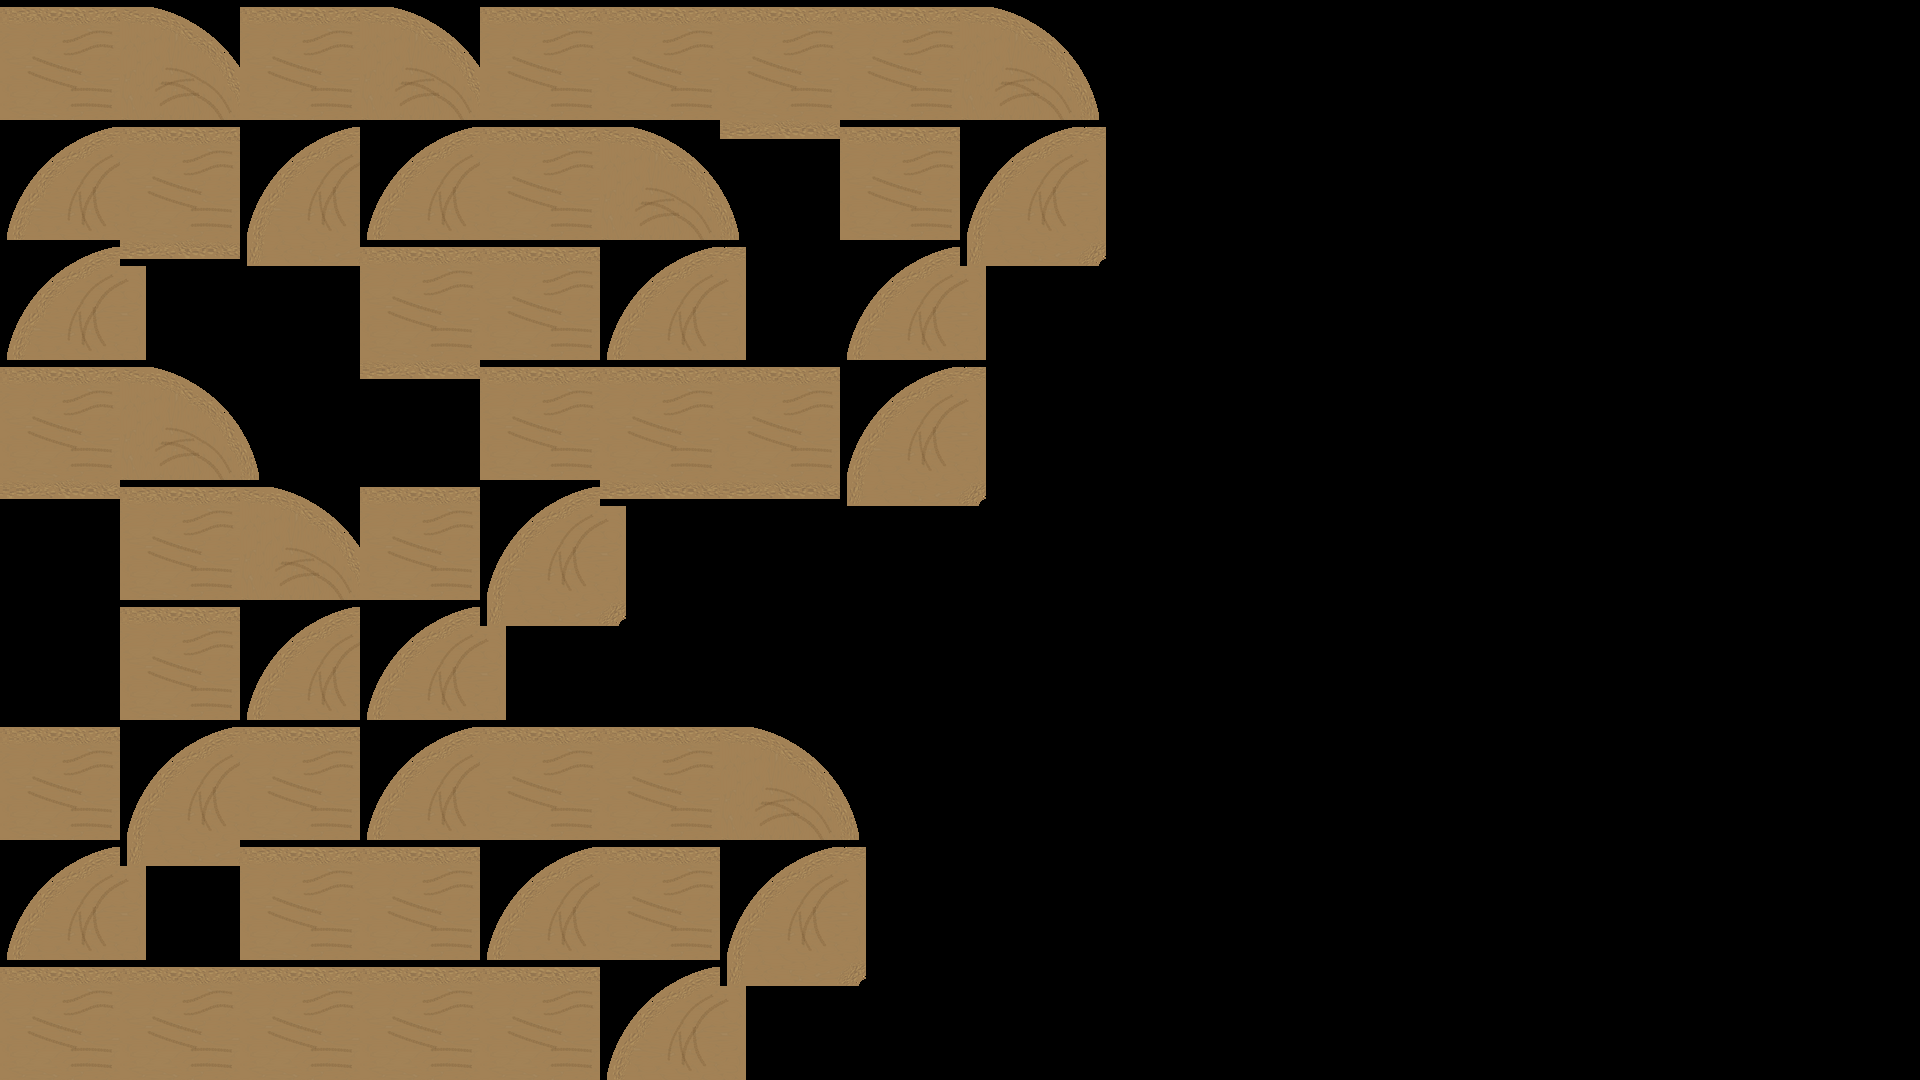
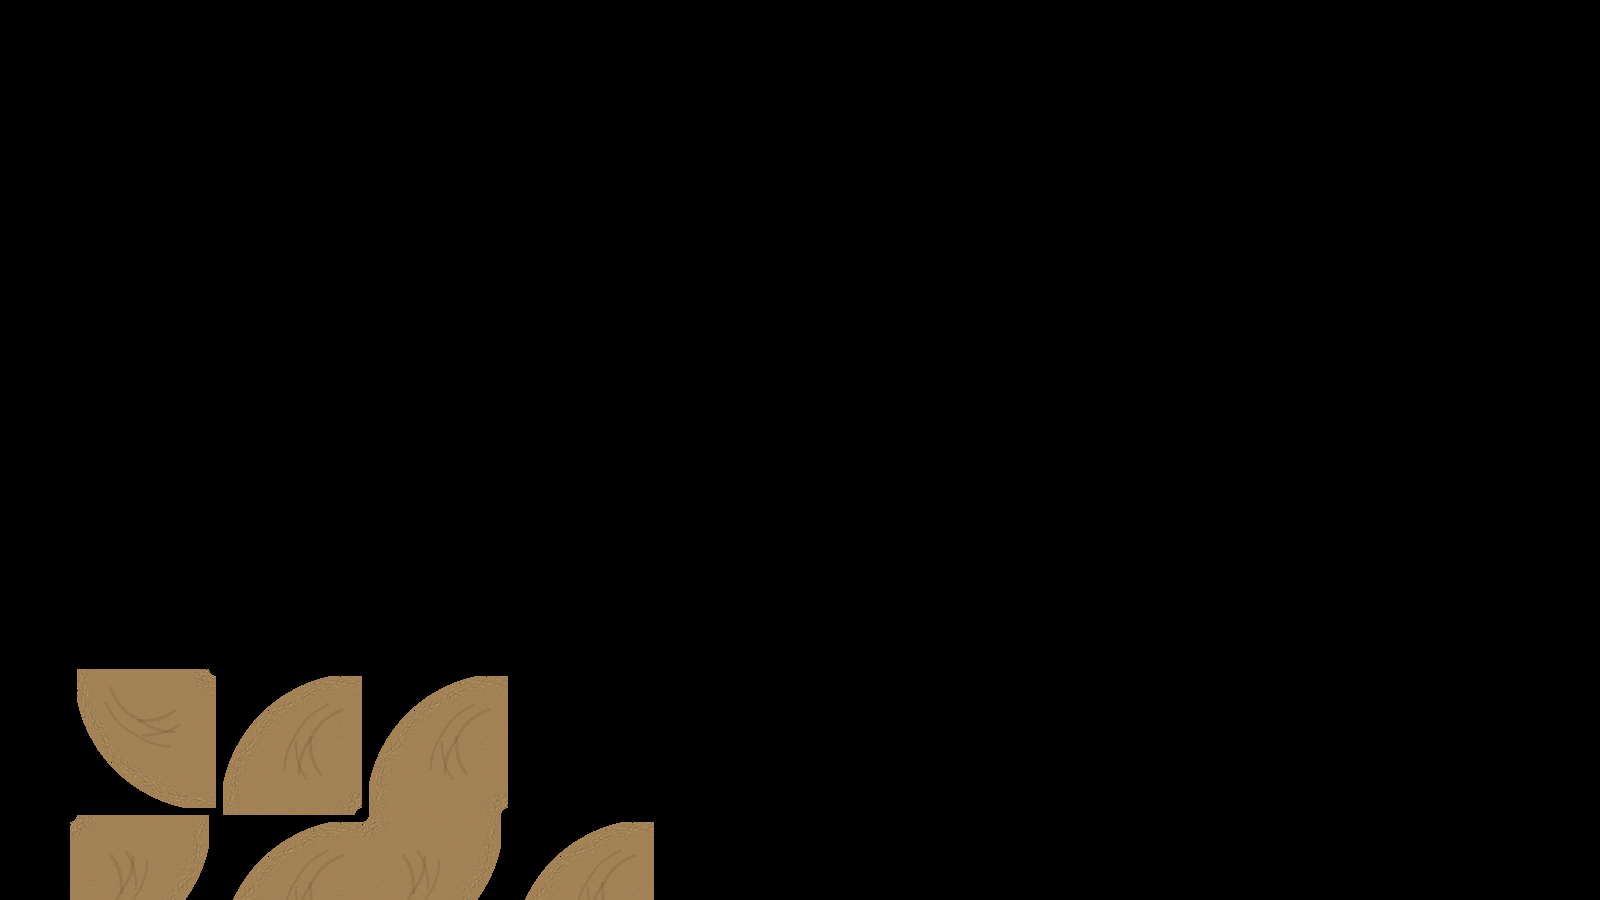
Seems to be working now?

diff --git a/MapGenerator/__init__.py b/MapGenerator/__init__.py
@@ -7,16 +7,19 @@ WIDTH = 16
 HEIGHT = 9
 SCREEN_WIDTH = 1920
 SCREEN_HEIGHT = 1080
-BLOCKSIZE = SCREEN_WIDTH/WIDTH # 120
+BLOCKSIZE = 146 # 120
 
 pyg.init()
 SCREEN = pyg.display.set_mode((SCREEN_WIDTH, SCREEN_HEIGHT))
-vertical      = pyg.image.load("track_imgs/vertical.png")
-horizontal    = pyg.image.load("track_imgs/horizontal.png")
-right_to_down = pyg.image.load("track_imgs/r2d.png")
-down_to_left  = pyg.image.load("track_imgs/d2l.png")
-left_to_top   = pyg.image.load("track_imgs/l2t.png")
-top_to_right  = pyg.image.load("track_imgs/t2r.png")
+vertical      = pyg.image.load("MapGenerator/track_imgs/vertical.png")
+horizontal    = pyg.image.load("MapGenerator/track_imgs/horizontal.png")
+right_to_down = pyg.image.load("MapGenerator/track_imgs/r2d.png")
+down_to_left  = pyg.image.load("MapGenerator/track_imgs/d2l.png")
+left_to_top   = pyg.image.load("MapGenerator/track_imgs/l2t.png")
+top_to_right  = pyg.image.load("MapGenerator/track_imgs/t2r.png")
+
+movex = 70
+movey = 85
 
 def generate_image(maze: Maze):
     for cell_row in maze:
@@ -26,26 +29,26 @@ def generate_image(maze: Maze):
                 continue
             cell_coordinates = get_coordinates(cell)
             cell_img_rect = cell_img.get_rect()
-            SCREEN.blit(cell_img, cell_img_rect.move(*cell_coordinates))
+            SCREEN.blit(cell_img, cell_img_rect.move(cell_coordinates[0]+movex, cell_coordinates[1]+movey))
 
 def get_img(cell: Cell):
     openings = cell.get_opening()
     print(f"WALLS: {cell.walls}")
-    print(f"openings: {openings}")
-    if ('down' and 'up') in openings:
+    print(f"openings: {openings} {openings.__len__()}")
+    if 'down' in openings and 'top' in openings:
         return vertical
-    elif ('left' and 'right') in openings: 
+    elif 'left' in openings and 'right' in openings: 
         return horizontal
-    elif ('right' and 'down') in openings:
+    elif 'right' in openings and 'down' in openings:
         return right_to_down
-    elif ('down' and 'left') in openings:
+    elif 'down' in openings and 'left' in openings:
         return down_to_left
-    elif ('left' and 'top') in openings:
+    elif 'left' in openings and 'top' in openings:
         return left_to_top
-    elif ('top' and 'right') in openings:
+    elif 'top' in openings and 'right' in openings:
         return top_to_right
-    else:
-        return 'skip'
+    elif openings.__len__() == 0:
+        return "skip"
 
 def get_coordinates(cell: Cell) -> tuple: 
     row_id, col_id = cell.row_id, cell.col_id
@@ -53,10 +56,10 @@ def get_coordinates(cell: Cell) -> tuple:
 
 
 if __name__ == "__main__":
-    grids = Maze(rows=16, cols=9, start_pos=(0, 2))
+    grids = Maze(rows=12, cols=6, start_pos=(0, 2))
     grids.generate_maze()
-    track = generate_track(arr = grids)
+    track = generate_track(arr = grids, min_len=10)
     generate_image(track.maze)
-    #SCREEN.blit(right_to_down, (0, 0))
-    pyg.image.save(SCREEN, "tracks/test.png")
+    pyg.image.save(SCREEN, "tracks/test2.png")
     track.print_maze()
+    print(track.maze[0][2].walls)

diff --git a/MapGenerator/maze.py b/MapGenerator/maze.py
@@ -61,7 +61,7 @@ class Maze:
 
         return neighbours
 
-def generate_track(arr: Maze) -> None:
+def generate_track(arr: Maze, min_len=30) -> None:
     "The track is generated with the first visited cell being one above the start cell!!!"
     maze = copy.deepcopy(arr)
     start_cell = maze.maze[maze.start_pos[0]][maze.start_pos[1]]
@@ -69,11 +69,14 @@ def generate_track(arr: Maze) -> None:
     track_length = 0
     goal_cells = maze.get_neighbours(start_cell)
     start_cell.knock_down_wall(maze.maze[start_cell.row_id][start_cell.col_id-1])
-    start_cell.index = 0
+    start_cell.index = 1
     current_cell = maze.maze[start_cell.row_id][start_cell.col_id-1]
+    visited_cells.append(start_cell)
+    visited_cells.append(current_cell)
     while True:
         if current_cell == start_cell:
-            if track_length < 30: return generate_track(arr)
+            if track_length < min_len: return generate_track(arr)
+            [print("VVVVV", cell.walls) for cell in visited_cells]
             return maze
         possible_neighbours = maze.get_neighbours(current_cell, visited=True)
         if not possible_neighbours:
@@ -81,9 +84,11 @@ def generate_track(arr: Maze) -> None:
         #Chose cell to go to.
         neighbour_cell = random.choice(possible_neighbours)
         current_cell.knock_down_wall(neighbour_cell)
-        current_cell.index = track_length+1
+        current_cell.index = track_length+2
+        visited_cells.append(current_cell)
         track_length += 1
         current_cell = neighbour_cell
+    
 
 if __name__ == '__main__':
     maze = Maze(16, 9, start_pos=(0, 2))

diff --git a/MapGenerator/cell.py b/MapGenerator/cell.py
@@ -29,16 +29,15 @@ class Cell:
 
     def get_wall_between(self, neighbour: "Cell") -> list:
         "Returns the direction of the wall, first for the current cell, and afterwards for the neighbour"
-        if self.row_id == neighbour.row_id: #The wall must be above or below current cell
-            if self.col_id - neighbour.col_id == -1: #The wall is above the current cell
+        if self.row_id == neighbour.row_id: #The wall must be above or below
+            if self.col_id - neighbour.col_id == 1: #the wall is above
                 return ['top', 'down']
-            elif self.col_id - neighbour.col_id == 1: #The wall is below the current cell
+            elif self.col_id - neighbour.col_id == -1: #The wall is below
                 return ['down', 'top']
-            print('2')
-        if self.col_id == neighbour.col_id:
-            if self.row_id - neighbour.row_id == -1: #The wall is to the right of current cell
+        if self.col_id == neighbour.col_id: #The is to the side of the cell
+            if self.row_id - neighbour.row_id == -1: #RIGHT
                 return ['right', 'left']
-            elif self.row_id - neighbour.row_id == 1: #The wall is to the left of current cell
+            elif self.row_id - neighbour.row_id == 1: #LEFT
                 return ['left', 'right']
             print('3')
 
